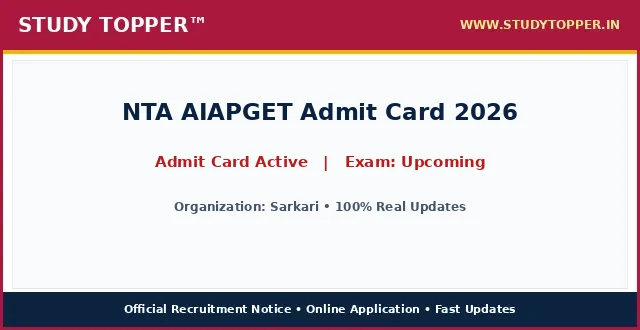
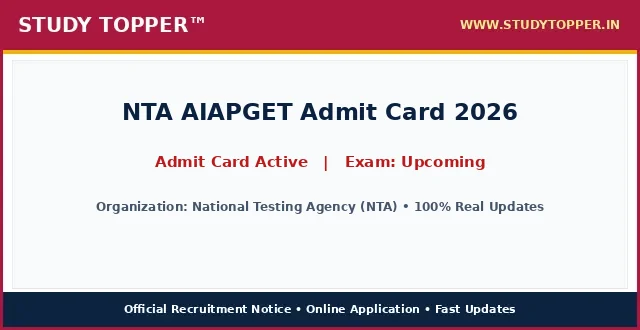
chore(lifecycle): daily auto-sort vacancies and update active dates

Changed region(s): [[0.125, 0.6061, 0.8438, 0.6667]]

diff --git a/pages/nta-aiapget-2026.html b/pages/nta-aiapget-2026.html
@@ -987,12 +987,12 @@ ul.wp-block-latest-posts a:hover {
 <main class="site-main" id="main">
 <div class="gb-container gb-container-b39c368c">
 <h1 class="gb-headline gb-headline-e52a0102 gb-headline-text" style="font-size: 22px; font-weight: 700; color: #0000cd; text-align: left; margin: 8px 0 4px 0; line-height: 1.3; width: 100%; font-family: '-apple-system, BlinkMacSystemFont, 'Segoe UI', Roboto, 'Helvetica Neue', Arial, sans-serif', Times, serif, Hind, sans-serif;">NTA AIAPGET Admit Card 2026</h1>
-<div class="gb-container gb-container-659bd175"><p style="color: #cd0808; font-weight: 700; font-size: 15px; margin: 2px 0 7px 0; text-align: left; font-family: '-apple-system, BlinkMacSystemFont, 'Segoe UI', Roboto, 'Helvetica Neue', Arial, sans-serif', Times, serif, Hind, sans-serif;">Post Date: August 22, 2026 11:53 AM</p></div>
-<p class="gb-headline gb-headline-550ae316 short_Details gb-headline-text" style="width: 100%; max-width: 100%; font-size: 16.8px; line-height: 1.55; color: #000000; text-align: justify; text-justify: inter-word; margin: 8px 0 14px 0; display: block; font-family: '-apple-system, BlinkMacSystemFont, 'Segoe UI', Roboto, 'Helvetica Neue', Arial, sans-serif', Times, serif, Hind, sans-serif;"><strong style="color: #0000cd;">Sarkari</strong> has officially released the exam city intimation slip and <strong style="color: #cd0808;">NTA AIAPGET Admit Card 2026</strong> for eligible registered candidates. Aspirants appearing for the upcoming computer-based test can download their e-call letters by entering their registration credentials. The hall ticket contains vital examination details including shift timings, reporting hours, test venue coordinates, and exam day guidelines. Candidates must download and print their admit cards early to avoid last-minute server congestion and carry valid photo identification.</p>
+<div class="gb-container gb-container-659bd175"><p style="color: #cd0808; font-weight: 700; font-size: 15px; margin: 2px 0 7px 0; text-align: left; font-family: '-apple-system, BlinkMacSystemFont, 'Segoe UI', Roboto, 'Helvetica Neue', Arial, sans-serif', Times, serif, Hind, sans-serif;">Post Date: August 22, 2026 01:03 PM</p></div>
+<p class="gb-headline gb-headline-550ae316 short_Details gb-headline-text" style="width: 100%; max-width: 100%; font-size: 16.8px; line-height: 1.55; color: #000000; text-align: justify; text-justify: inter-word; margin: 8px 0 14px 0; display: block; font-family: '-apple-system, BlinkMacSystemFont, 'Segoe UI', Roboto, 'Helvetica Neue', Arial, sans-serif', Times, serif, Hind, sans-serif;"><strong style="color: #0000cd;">National Testing Agency (NTA)</strong> has officially released the exam city intimation slip and <strong style="color: #cd0808;">NTA AIAPGET Admit Card 2026</strong> for eligible registered candidates. Aspirants appearing for the upcoming computer-based test can download their e-call letters by entering their registration credentials. The hall ticket contains vital examination details including shift timings, reporting hours, test venue coordinates, and exam day guidelines. Candidates must download and print their admit cards early to avoid last-minute server congestion and carry valid photo identification.</p>
 <div class="gb-container gb-container-9849916c"><div class="social-buttons-compact" style="display: flex; justify-content: flex-start; align-items: center; gap: 10px; margin: 10px 0 16px 0; width: 100%;"><a class="social-btn-compact wa" href="https://whatsapp.com/channel/0029Va9xyz" rel="noopener" style="background-color: #00d084; color: #ffffff; padding: 10px 18px; border-radius: 4px; text-decoration: none; font-weight: bold; font-size: 15.5px; display: inline-flex; align-items: center; justify-content: center; height: auto;" target="_blank">WhatsApp</a><a class="social-btn-compact tg" href="https://t.me/studytopperofficial" rel="noopener" style="background-color: #0088cc; color: #ffffff; padding: 10px 18px; border-radius: 4px; text-decoration: none; font-weight: bold; font-size: 15.5px; display: inline-flex; align-items: center; justify-content: center; height: auto;" target="_blank">Telegram</a></div></div>
 <div class="gb-container gb-container-f58e6ca1" style="border: 2px solid #5b032f; border-radius: 4px; overflow: hidden; margin: 15px 0 20px 0; background-color: #ffffff; width: 100%; box-sizing: border-box;">
 <h2 class="gb-headline gb-headline-2ca5a791 gb-headline-text" style="font-size: 16px; font-weight: 700; text-align: center; color: #ef0303; line-height: 1.3; padding: 6px 4px; margin: 0; background: #ffffff; font-family: '-apple-system, BlinkMacSystemFont, 'Segoe UI', Roboto, 'Helvetica Neue', Arial, sans-serif', Times, serif, Hind, sans-serif;">NTA AIAPGET Admit Card 2026 &ndash; Latest Details &amp; Updates</h2>
-<h3 class="gb-headline gb-headline-7d5f86e8 gb-headline-text" style="font-size: 16px; font-weight: 600; text-align: center; color: #009703; line-height: 1.25; margin: 0; padding: 2px 4px 6px 4px; background: #ffffff; font-family: '-apple-system, BlinkMacSystemFont, 'Segoe UI', Roboto, 'Helvetica Neue', Arial, sans-serif', Times, serif, Hind, sans-serif;">Sarkari : Details &amp; Summary</h3>
+<h3 class="gb-headline gb-headline-7d5f86e8 gb-headline-text" style="font-size: 16px; font-weight: 600; text-align: center; color: #009703; line-height: 1.25; margin: 0; padding: 2px 4px 6px 4px; background: #ffffff; font-family: '-apple-system, BlinkMacSystemFont, 'Segoe UI', Roboto, 'Helvetica Neue', Arial, sans-serif', Times, serif, Hind, sans-serif;">National Testing Agency (NTA) : Details &amp; Summary</h3>
 <p class="gb-headline gb-headline-79adf169 gb-headline-text" style="margin: 0 0 6px 0; font-family: '-apple-system, BlinkMacSystemFont, 'Segoe UI', Roboto, 'Helvetica Neue', Arial, sans-serif', Times, serif, Hind, sans-serif; text-align: center; font-size: 18px; font-weight: 700;"><a href="/" style="color: #0000ff; text-decoration: underline;">StudyTopper.in</a></p>
 
 <style id="st-post-boxes-responsive-css">
@@ -1025,7 +1025,7 @@ ul.wp-block-latest-posts a:hover {
     <div style="background-color: #5b032f; color: #ffffff; padding: 8px 10px; font-size: 20px; font-weight: 700; text-align: center; font-family: '-apple-system, BlinkMacSystemFont, 'Segoe UI', Roboto, 'Helvetica Neue', Arial, sans-serif', Times, serif, Hind, sans-serif;">Admit Card &amp; Exam Dates</div>
     <div style="padding: 12px 14px; background-color: #ffffff;">
       <ul style="padding-left: 20px; margin: 0; list-style-type: disc; text-align: left; font-size: 14pt; line-height: 1.6; font-family: '-apple-system, BlinkMacSystemFont, 'Segoe UI', Roboto, 'Helvetica Neue', Arial, sans-serif', Times, serif, Hind, sans-serif;">
-        
+        <li><span style="font-size: 14pt;">Release Date : <strong>Published Officially</strong></span></li><li><span style="font-size: 14pt;">Status : <strong>Available Online</strong></span></li>
       </ul>
     </div>
   </div>
@@ -1034,7 +1034,7 @@ ul.wp-block-latest-posts a:hover {
     <div style="background-color: #5b032f; color: #ffffff; padding: 8px 10px; font-size: 20px; font-weight: 700; text-align: center; font-family: '-apple-system, BlinkMacSystemFont, 'Segoe UI', Roboto, 'Helvetica Neue', Arial, sans-serif', Times, serif, Hind, sans-serif;">Application / Exam Fee</div>
     <div style="padding: 12px 14px; background-color: #ffffff;">
       <ul style="padding-left: 20px; margin: 0; list-style-type: disc; text-align: left; font-size: 14pt; line-height: 1.6; font-family: '-apple-system, BlinkMacSystemFont, 'Segoe UI', Roboto, 'Helvetica Neue', Arial, sans-serif', Times, serif, Hind, sans-serif;">
-        <li><span style="font-size: 14pt;">Bihar Police BPSSC Sub Inspector SI Prohibition Result 2026 Advt. No. : <strong>03/2026</strong></span></li><li><span style="font-size: 14pt;">UP Scholarship Online Form 2026 : <strong>2027</strong></span></li>
+        <li><span style="font-size: 14pt;">Application Fee : <strong>0/- (No Fee Required)</strong></span></li>
       </ul>
       <div style="margin-top: 10px; font-size: 14pt; line-height: 1.5; color: #000000; border-top: 1px dashed #ccc; padding-top: 8px; font-family: '-apple-system, BlinkMacSystemFont, 'Segoe UI', Roboto, 'Helvetica Neue', Arial, sans-serif', Times, serif, Hind, sans-serif;">
         <strong>Mode of Payment / Access:</strong> Online via Net Banking, Debit Card, Credit Card, UPI or Free Candidate Portal.
@@ -1047,7 +1047,7 @@ ul.wp-block-latest-posts a:hover {
 <div class="st-grid-row" style="display: flex; flex-wrap: wrap; width: 100%; border-top: 2px solid #5b032f; margin: 0; padding: 0; box-sizing: border-box;">
   <!-- Left Col: Age Limits -->
   <div class="st-col-half st-col-border-right" style="box-sizing: border-box; vertical-align: top;">
-    <div style="background-color: #046132; color: #ffffff; padding: 8px 10px; font-size: 17px; font-weight: 700; text-align: center; font-family: '-apple-system, BlinkMacSystemFont, 'Segoe UI', Roboto, 'Helvetica Neue', Arial, sans-serif', Times, serif, Hind, sans-serif;">Sarkari : Age Limits As On 01 August 2026</div>
+    <div style="background-color: #046132; color: #ffffff; padding: 8px 10px; font-size: 17px; font-weight: 700; text-align: center; font-family: '-apple-system, BlinkMacSystemFont, 'Segoe UI', Roboto, 'Helvetica Neue', Arial, sans-serif', Times, serif, Hind, sans-serif;">National Testing Agency (NTA) : Age Limits As On 01/08/2026</div>
     <div style="padding: 12px 14px; background-color: #ffffff;">
       <ul style="padding-left: 20px; margin: 0; list-style-type: disc; text-align: left; font-size: 14pt; line-height: 1.6; font-family: '-apple-system, BlinkMacSystemFont, 'Segoe UI', Roboto, 'Helvetica Neue', Arial, sans-serif', Times, serif, Hind, sans-serif;">
         
@@ -1058,7 +1058,7 @@ ul.wp-block-latest-posts a:hover {
   <div class="st-col-half" style="box-sizing: border-box; vertical-align: top;">
     <div style="background-color: #f53c00; color: #ffffff; padding: 8px 10px; font-size: 20px; font-weight: 700; text-align: center; font-family: '-apple-system, BlinkMacSystemFont, 'Segoe UI', Roboto, 'Helvetica Neue', Arial, sans-serif', Times, serif, Hind, sans-serif;">Hall Ticket Status</div>
     <div style="padding: 24px 10px; background-color: #ffffff; text-align: center;">
-      <span style="font-size: 28px; font-weight: 800; color: #000000; font-family: '-apple-system, BlinkMacSystemFont, 'Segoe UI', Roboto, 'Helvetica Neue', Arial, sans-serif', Times, serif, Hind, sans-serif;">545 Post</span>
+      <span style="font-size: 28px; font-weight: 800; color: #000000; font-family: '-apple-system, BlinkMacSystemFont, 'Segoe UI', Roboto, 'Helvetica Neue', Arial, sans-serif', Times, serif, Hind, sans-serif;">Various Posts</span>
     </div>
   </div>
 </div>
@@ -1079,9 +1079,9 @@ ul.wp-block-latest-posts a:hover {
 <th style="background-color: #f53c00; color: #ffffff; padding: 6px 10px; text-align: center; border: 1px solid #d35400; font-size: 15px; font-weight: 700; font-family: '-apple-system, BlinkMacSystemFont, 'Segoe UI', Roboto, 'Helvetica Neue', Arial, sans-serif', Times, serif, Hind, sans-serif;">Educational Eligibility Criteria</th>
 </tr>
 <tr>
-<td style="padding: 8px; border: 1px solid #ddd; font-weight: bold;">Sarkari Recruitment</td>
-<td style="padding: 8px; border: 1px solid #ddd; text-align: center; font-weight: bold;">545 Post</td>
-<td style="padding: 8px; border: 1px solid #ddd;">Please refer to the official notification linked below for detailed educational qualifications.</td>
+<td style="padding: 8px; border: 1px solid #ddd; font-weight: bold;">NTA AIAPGET Admit Card 2026</td>
+<td style="padding: 8px; border: 1px solid #ddd; text-align: center; font-weight: bold;">Various Posts</td>
+<td style="padding: 8px; border: 1px solid #ddd;">Passed prescribed Educational Qualification from Any Recognized Board / University in India. Read full official notification for post-wise eligibility criteria.</td>
 </tr>
 </tbody>
 </table>
@@ -1093,7 +1093,7 @@ ul.wp-block-latest-posts a:hover {
 <table style="border-collapse: collapse; width: 100%;">
 <tbody>
 <tr>
-<td style="width: 100%; text-align: center;"><span style="background-color: #000080; color: #ffffff; font-size: 14pt; font-weight: bold; display: block; padding: 6px;"> How to Download Sarkari Admit Card 2026 &amp; Exam Day Instructions </span></td>
+<td style="width: 100%; text-align: center;"><span style="background-color: #000080; color: #ffffff; font-size: 14pt; font-weight: bold; display: block; padding: 6px;"> How to Download National Testing Agency (NTA) Admit Card 2026 &amp; Exam Day Instructions </span></td>
 </tr>
 <tr>
 <td style="width: 100%;"><ol style="margin:0; padding-left:18px; text-align: left !important; list-style-position: outside !important"><li style="margin-bottom:6px; text-align: left !important;">Scroll down to the 'Important Links' section on this page.</li><li style="margin-bottom:6px; text-align: left !important;">Click on the direct link to download/check your status.</li><li style="margin-bottom:6px; text-align: left !important;">Enter your required login credentials such as Registration Number, Roll Number, or Date of Birth.</li><li style="margin-bottom:6px; text-align: left !important;">Click on submit to view your status.</li><li style="margin-bottom:6px; text-align: left !important;">Download and take a printout for future reference.</li></ol></td>
@@ -1104,7 +1104,7 @@ ul.wp-block-latest-posts a:hover {
 <table style="border-collapse: collapse; width: 100%;">
 <tbody>
 <tr>
-<td style="width: 100%; text-align: center;"><span style="background-color: #000080; color: #ffffff; font-size: 14pt;"><strong><span style="color: #ffffff;"> Sarkari Recruitment 2026 : Mode Of Selection </span></strong></span></td>
+<td style="width: 100%; text-align: center;"><span style="background-color: #000080; color: #ffffff; font-size: 14pt;"><strong><span style="color: #ffffff;"> National Testing Agency (NTA) Recruitment 2026 : Mode Of Selection </span></strong></span></td>
 </tr>
 <tr>
 <td style="width: 100%;">
@@ -1144,10 +1144,98 @@ ul.wp-block-latest-posts a:hover {
 
 <tr style="border-bottom: 1px solid #000000; background-color: #fff37a;">
 <td style="width: 50%; padding: 14px 16px; border-right: 1px solid #000000; text-align: center;">
-<span style="font-size: 19px; font-weight: 800; color: #000000; font-family: '-apple-system, BlinkMacSystemFont, 'Segoe UI', Roboto, 'Helvetica Neue', Arial, sans-serif', Times, serif, Hind, sans-serif;">Download Admit Card / Hall Ticket</span>
+<span style="font-size: 19px; font-weight: 800; color: #000000; font-family: '-apple-system, BlinkMacSystemFont, 'Segoe UI', Roboto, 'Helvetica Neue', Arial, sans-serif', Times, serif, Hind, sans-serif;">Join Our WhatsApp Channel</span>
 </td>
 <td style="width: 50%; padding: 14px 16px; text-align: center;">
-<span style="font-size: 20px; font-weight: 800; font-family: '-apple-system, BlinkMacSystemFont, 'Segoe UI', Roboto, 'Helvetica Neue', Arial, sans-serif', Times, serif, Hind, sans-serif;"><a href="" aria-label="Click Here for Download Admit Card / Hall Ticket - NTA AIAPGET Admit Card 2026" rel="noopener noreferrer" style="color: #0000ef; font-weight: 800; text-decoration: none;" target="_blank">Click Here</a></span>
+<span style="font-size: 20px; font-weight: 800; font-family: '-apple-system, BlinkMacSystemFont, 'Segoe UI', Roboto, 'Helvetica Neue', Arial, sans-serif', Times, serif, Hind, sans-serif;"><a href="https://whatsapp.com/channel/0029VavXmlBEAKWFRHeXwL28" aria-label="Click Here for Join Our WhatsApp Channel - NTA AIAPGET Admit Card 2026" rel="noopener noreferrer" style="color: #0000ef; font-weight: 800; text-decoration: none;" target="_blank">Click Here</a></span>
+</td>
+</tr>
+<tr style="border-bottom: 1px solid #000000; background-color: #fff37a;">
+<td style="width: 50%; padding: 14px 16px; border-right: 1px solid #000000; text-align: center;">
+<span style="font-size: 19px; font-weight: 800; color: #000000; font-family: '-apple-system, BlinkMacSystemFont, 'Segoe UI', Roboto, 'Helvetica Neue', Arial, sans-serif', Times, serif, Hind, sans-serif;">Join Our Telegram Channel</span>
+</td>
+<td style="width: 50%; padding: 14px 16px; text-align: center;">
+<span style="font-size: 20px; font-weight: 800; font-family: '-apple-system, BlinkMacSystemFont, 'Segoe UI', Roboto, 'Helvetica Neue', Arial, sans-serif', Times, serif, Hind, sans-serif;"><a href="https://t.me/sarkariresultoficial" aria-label="Click Here for Join Our Telegram Channel - NTA AIAPGET Admit Card 2026" rel="noopener noreferrer" style="color: #0000ef; font-weight: 800; text-decoration: none;" target="_blank">Click Here</a></span>
+</td>
+</tr>
+<tr style="border-bottom: 1px solid #000000; background-color: #fff37a;">
+<td style="width: 50%; padding: 14px 16px; border-right: 1px solid #000000; text-align: center;">
+<span style="font-size: 19px; font-weight: 800; color: #000000; font-family: '-apple-system, BlinkMacSystemFont, 'Segoe UI', Roboto, 'Helvetica Neue', Arial, sans-serif', Times, serif, Hind, sans-serif;">Download Admit Card</span>
+</td>
+<td style="width: 50%; padding: 14px 16px; text-align: center;">
+<span style="font-size: 20px; font-weight: 800; font-family: '-apple-system, BlinkMacSystemFont, 'Segoe UI', Roboto, 'Helvetica Neue', Arial, sans-serif', Times, serif, Hind, sans-serif;"><a href="https://examinationservices.nic.in/AdmitCardService/Admitcardview/Login?enc=EU2nJaTepF908NeNySmtkjs0/iPIvXk12Fg+hTlccys=" aria-label="Click Here for Download Admit Card - NTA AIAPGET Admit Card 2026" rel="noopener noreferrer" style="color: #0000ef; font-weight: 800; text-decoration: none;" target="_blank">Click Here</a></span>
+</td>
+</tr>
+<tr style="border-bottom: 1px solid #000000; background-color: #fff37a;">
+<td style="width: 50%; padding: 14px 16px; border-right: 1px solid #000000; text-align: center;">
+<span style="font-size: 19px; font-weight: 800; color: #000000; font-family: '-apple-system, BlinkMacSystemFont, 'Segoe UI', Roboto, 'Helvetica Neue', Arial, sans-serif', Times, serif, Hind, sans-serif;">Check Admit Card Notice</span>
+</td>
+<td style="width: 50%; padding: 14px 16px; text-align: center;">
+<span style="font-size: 20px; font-weight: 800; font-family: '-apple-system, BlinkMacSystemFont, 'Segoe UI', Roboto, 'Helvetica Neue', Arial, sans-serif', Times, serif, Hind, sans-serif;"><a href="https://cdnbbsr.s3waas.gov.in/s388a839f2f6f1427879fc33ee4acf4f66/uploads/2026/08/20260818137536527.pdf" aria-label="Click Here for Check Admit Card Notice - NTA AIAPGET Admit Card 2026" rel="noopener noreferrer" style="color: #0000ef; font-weight: 800; text-decoration: none;" target="_blank">Click Here</a></span>
+</td>
+</tr>
+<tr style="border-bottom: 1px solid #000000; background-color: #fff37a;">
+<td style="width: 50%; padding: 14px 16px; border-right: 1px solid #000000; text-align: center;">
+<span style="font-size: 19px; font-weight: 800; color: #000000; font-family: '-apple-system, BlinkMacSystemFont, 'Segoe UI', Roboto, 'Helvetica Neue', Arial, sans-serif', Times, serif, Hind, sans-serif;">Download Exam City Details</span>
+</td>
+<td style="width: 50%; padding: 14px 16px; text-align: center;">
+<span style="font-size: 20px; font-weight: 800; font-family: '-apple-system, BlinkMacSystemFont, 'Segoe UI', Roboto, 'Helvetica Neue', Arial, sans-serif', Times, serif, Hind, sans-serif;"><a href="https://examinationservices.nic.in/AdmitCard/AuthForAdvanceCity/Login?enc=DJ8reokIYhe/x0Hlb6GKa7GQ7IXuVnqaT+Q4s4vV+/s=" aria-label="Click Here for Download Exam City Details - NTA AIAPGET Admit Card 2026" rel="noopener noreferrer" style="color: #0000ef; font-weight: 800; text-decoration: none;" target="_blank">Click Here</a></span>
+</td>
+</tr>
+<tr style="border-bottom: 1px solid #000000; background-color: #fff37a;">
+<td style="width: 50%; padding: 14px 16px; border-right: 1px solid #000000; text-align: center;">
+<span style="font-size: 19px; font-weight: 800; color: #000000; font-family: '-apple-system, BlinkMacSystemFont, 'Segoe UI', Roboto, 'Helvetica Neue', Arial, sans-serif', Times, serif, Hind, sans-serif;">Check Exam City Notice</span>
+</td>
+<td style="width: 50%; padding: 14px 16px; text-align: center;">
+<span style="font-size: 20px; font-weight: 800; font-family: '-apple-system, BlinkMacSystemFont, 'Segoe UI', Roboto, 'Helvetica Neue', Arial, sans-serif', Times, serif, Hind, sans-serif;"><a href="https://cdnbbsr.s3waas.gov.in/s388a839f2f6f1427879fc33ee4acf4f66/uploads/2026/08/202608131821925460.pdf" aria-label="Click Here for Check Exam City Notice - NTA AIAPGET Admit Card 2026" rel="noopener noreferrer" style="color: #0000ef; font-weight: 800; text-decoration: none;" target="_blank">Click Here</a></span>
+</td>
+</tr>
+<tr style="border-bottom: 1px solid #000000; background-color: #fff37a;">
+<td style="width: 50%; padding: 14px 16px; border-right: 1px solid #000000; text-align: center;">
+<span style="font-size: 19px; font-weight: 800; color: #000000; font-family: '-apple-system, BlinkMacSystemFont, 'Segoe UI', Roboto, 'Helvetica Neue', Arial, sans-serif', Times, serif, Hind, sans-serif;">Online Correction Link</span>
+</td>
+<td style="width: 50%; padding: 14px 16px; text-align: center;">
+<span style="font-size: 20px; font-weight: 800; font-family: '-apple-system, BlinkMacSystemFont, 'Segoe UI', Roboto, 'Helvetica Neue', Arial, sans-serif', Times, serif, Hind, sans-serif;"><a href="https://examinationservices.nic.in/ExamSys26part2/root/CandidateLogin.aspx?enc=Ei4cajBkK1gZSfgr53ImFZ+h0MepSUWC4caRGr23rIGxoddmkPhP33EPDwrEMlwi" aria-label="Click Here for Online Correction Link - NTA AIAPGET Admit Card 2026" rel="noopener noreferrer" style="color: #0000ef; font-weight: 800; text-decoration: none;" target="_blank">Click Here</a></span>
+</td>
+</tr>
+<tr style="border-bottom: 1px solid #000000; background-color: #fff37a;">
+<td style="width: 50%; padding: 14px 16px; border-right: 1px solid #000000; text-align: center;">
+<span style="font-size: 19px; font-weight: 800; color: #000000; font-family: '-apple-system, BlinkMacSystemFont, 'Segoe UI', Roboto, 'Helvetica Neue', Arial, sans-serif', Times, serif, Hind, sans-serif;">Check Correction Notice</span>
+</td>
+<td style="width: 50%; padding: 14px 16px; text-align: center;">
+<span style="font-size: 20px; font-weight: 800; font-family: '-apple-system, BlinkMacSystemFont, 'Segoe UI', Roboto, 'Helvetica Neue', Arial, sans-serif', Times, serif, Hind, sans-serif;"><a href="https://cdnbbsr.s3waas.gov.in/s388a839f2f6f1427879fc33ee4acf4f66/uploads/2026/08/202608011180992762.pdf" aria-label="Click Here for Check Correction Notice - NTA AIAPGET Admit Card 2026" rel="noopener noreferrer" style="color: #0000ef; font-weight: 800; text-decoration: none;" target="_blank">Click Here</a></span>
+</td>
+</tr>
+<tr style="border-bottom: 1px solid #000000; background-color: #fff37a;">
+<td style="width: 50%; padding: 14px 16px; border-right: 1px solid #000000; text-align: center;">
+<span style="font-size: 19px; font-weight: 800; color: #000000; font-family: '-apple-system, BlinkMacSystemFont, 'Segoe UI', Roboto, 'Helvetica Neue', Arial, sans-serif', Times, serif, Hind, sans-serif;">Apply Online</span>
+</td>
+<td style="width: 50%; padding: 14px 16px; text-align: center;">
+<span style="font-size: 20px; font-weight: 800; font-family: '-apple-system, BlinkMacSystemFont, 'Segoe UI', Roboto, 'Helvetica Neue', Arial, sans-serif', Times, serif, Hind, sans-serif;"><a href="https://examinationservices.nic.in/ExamSys26part2/root/Home.aspx?enc=Ei4cajBkK1gZSfgr53ImFZ+h0MepSUWC4caRGr23rIGxoddmkPhP33EPDwrEMlwi" aria-label="Click Here for Apply Online - NTA AIAPGET Admit Card 2026" rel="noopener noreferrer" style="color: #0000ef; font-weight: 800; text-decoration: none;" target="_blank">Click Here</a></span>
+</td>
+</tr>
+<tr style="border-bottom: 1px solid #000000; background-color: #fff37a;">
+<td style="width: 50%; padding: 14px 16px; border-right: 1px solid #000000; text-align: center;">
+<span style="font-size: 19px; font-weight: 800; color: #000000; font-family: '-apple-system, BlinkMacSystemFont, 'Segoe UI', Roboto, 'Helvetica Neue', Arial, sans-serif', Times, serif, Hind, sans-serif;">Download Information Bulletin</span>
+</td>
+<td style="width: 50%; padding: 14px 16px; text-align: center;">
+<span style="font-size: 20px; font-weight: 800; font-family: '-apple-system, BlinkMacSystemFont, 'Segoe UI', Roboto, 'Helvetica Neue', Arial, sans-serif', Times, serif, Hind, sans-serif;"><a href="https://cdnbbsr.s3waas.gov.in/s388a839f2f6f1427879fc33ee4acf4f66/uploads/2026/07/20260710422047595.pdf" aria-label="Click Here for Download Information Bulletin - NTA AIAPGET Admit Card 2026" rel="noopener noreferrer" style="color: #0000ef; font-weight: 800; text-decoration: none;" target="_blank">Click Here</a></span>
+</td>
+</tr>
+<tr style="border-bottom: 1px solid #000000; background-color: #fff37a;">
+<td style="width: 50%; padding: 14px 16px; border-right: 1px solid #000000; text-align: center;">
+<span style="font-size: 19px; font-weight: 800; color: #000000; font-family: '-apple-system, BlinkMacSystemFont, 'Segoe UI', Roboto, 'Helvetica Neue', Arial, sans-serif', Times, serif, Hind, sans-serif;">Check Official Notification</span>
+</td>
+<td style="width: 50%; padding: 14px 16px; text-align: center;">
+<span style="font-size: 20px; font-weight: 800; font-family: '-apple-system, BlinkMacSystemFont, 'Segoe UI', Roboto, 'Helvetica Neue', Arial, sans-serif', Times, serif, Hind, sans-serif;"><a href="https://cdnbbsr.s3waas.gov.in/s388a839f2f6f1427879fc33ee4acf4f66/uploads/2026/07/202607101983155019.pdf" aria-label="Click Here for Check Official Notification - NTA AIAPGET Admit Card 2026" rel="noopener noreferrer" style="color: #0000ef; font-weight: 800; text-decoration: none;" target="_blank">Click Here</a></span>
+</td>
+</tr>
+<tr style="border-bottom: 1px solid #000000; background-color: #fff37a;">
+<td style="width: 50%; padding: 14px 16px; border-right: 1px solid #000000; text-align: center;">
+<span style="font-size: 19px; font-weight: 800; color: #000000; font-family: '-apple-system, BlinkMacSystemFont, 'Segoe UI', Roboto, 'Helvetica Neue', Arial, sans-serif', Times, serif, Hind, sans-serif;">Check Official Notification</span>
+</td>
+<td style="width: 50%; padding: 14px 16px; text-align: center;">
+<span style="font-size: 20px; font-weight: 800; font-family: '-apple-system, BlinkMacSystemFont, 'Segoe UI', Roboto, 'Helvetica Neue', Arial, sans-serif', Times, serif, Hind, sans-serif;"><a href="https://cdnbbsr.s3waas.gov.in/s388a839f2f6f1427879fc33ee4acf4f66/uploads/2026/07/20260710583088132.pdf" aria-label="Click Here for Check Official Notification - NTA AIAPGET Admit Card 2026" rel="noopener noreferrer" style="color: #0000ef; font-weight: 800; text-decoration: none;" target="_blank">Click Here</a></span>
 </td>
 </tr>
 <tr style="border-bottom: 1px solid #000000; background-color: #fff37a;">
@@ -1155,15 +1243,55 @@ ul.wp-block-latest-posts a:hover {
 <span style="font-size: 19px; font-weight: 800; color: #000000; font-family: '-apple-system, BlinkMacSystemFont, 'Segoe UI', Roboto, 'Helvetica Neue', Arial, sans-serif', Times, serif, Hind, sans-serif;">Check Sarkari Result</span>
 </td>
 <td style="width: 50%; padding: 14px 16px; text-align: center;">
-<span style="font-size: 20px; font-weight: 800; font-family: '-apple-system, BlinkMacSystemFont, 'Segoe UI', Roboto, 'Helvetica Neue', Arial, sans-serif', Times, serif, Hind, sans-serif;"><a href="/" aria-label="Click Here for Check Sarkari Result - NTA AIAPGET Admit Card 2026" rel="noopener noreferrer" style="color: #0000ef; font-weight: 800; text-decoration: none;" >Click Here</a></span>
+<span style="font-size: 20px; font-weight: 800; font-family: '-apple-system, BlinkMacSystemFont, 'Segoe UI', Roboto, 'Helvetica Neue', Arial, sans-serif', Times, serif, Hind, sans-serif;"><a href="https://sarkariresult.com.cm/" aria-label="Click Here for Check Sarkari Result - NTA AIAPGET Admit Card 2026" rel="noopener noreferrer" style="color: #0000ef; font-weight: 800; text-decoration: none;" target="_blank">Click Here</a></span>
+</td>
+</tr>
+<tr style="border-bottom: 1px solid #000000; background-color: #fff37a;">
+<td style="width: 50%; padding: 14px 16px; border-right: 1px solid #000000; text-align: center;">
+<span style="font-size: 19px; font-weight: 800; color: #000000; font-family: '-apple-system, BlinkMacSystemFont, 'Segoe UI', Roboto, 'Helvetica Neue', Arial, sans-serif', Times, serif, Hind, sans-serif;">AIAPGET Official Website</span>
+</td>
+<td style="width: 50%; padding: 14px 16px; text-align: center;">
+<span style="font-size: 20px; font-weight: 800; font-family: '-apple-system, BlinkMacSystemFont, 'Segoe UI', Roboto, 'Helvetica Neue', Arial, sans-serif', Times, serif, Hind, sans-serif;"><a href="https://exams.nta.ac.in/AIAPGET/" aria-label="Click Here for AIAPGET Official Website - NTA AIAPGET Admit Card 2026" rel="noopener noreferrer" style="color: #0000ef; font-weight: 800; text-decoration: none;" target="_blank">Click Here</a></span>
+</td>
+</tr>
+<tr style="border-bottom: 1px solid #000000; background-color: #fff37a;">
+<td style="width: 50%; padding: 14px 16px; border-right: 1px solid #000000; text-align: center;">
+<span style="font-size: 19px; font-weight: 800; color: #000000; font-family: '-apple-system, BlinkMacSystemFont, 'Segoe UI', Roboto, 'Helvetica Neue', Arial, sans-serif', Times, serif, Hind, sans-serif;">Latest Posts Haryana HTET Score Card 2026 – Out SSC Delhi Police Constable (Executive) PE & MT Notice 2026 UPSC CDS-II Final Result With Marks 2026 IDBI JAM Final Result 2026 Railway RRB ALP Application Status 2026 – Out</span>
+</td>
+<td style="width: 50%; padding: 14px 16px; text-align: center;">
+<span style="font-size: 20px; font-weight: 800; font-family: '-apple-system, BlinkMacSystemFont, 'Segoe UI', Roboto, 'Helvetica Neue', Arial, sans-serif', Times, serif, Hind, sans-serif;"><a href="https://sarkariresult.com.cm/ssc-delhi-police-constable-executive-2026/" aria-label="Click Here for Latest Posts Haryana HTET Score Card 2026 – Out SSC Delhi Police Constable (Executive) PE & MT Notice 2026 UPSC CDS-II Final Result With Marks 2026 IDBI JAM Final Result 2026 Railway RRB ALP Application Status 2026 – Out - NTA AIAPGET Admit Card 2026" rel="noopener noreferrer" style="color: #0000ef; font-weight: 800; text-decoration: none;" target="_blank">Click Here</a></span>
+</td>
+</tr>
+<tr style="border-bottom: 1px solid #000000; background-color: #fff37a;">
+<td style="width: 50%; padding: 14px 16px; border-right: 1px solid #000000; text-align: center;">
+<span style="font-size: 19px; font-weight: 800; color: #000000; font-family: '-apple-system, BlinkMacSystemFont, 'Segoe UI', Roboto, 'Helvetica Neue', Arial, sans-serif', Times, serif, Hind, sans-serif;">Latest Posts Haryana HTET Score Card 2026 – Out SSC Delhi Police Constable (Executive) PE & MT Notice 2026 UPSC CDS-II Final Result With Marks 2026 IDBI JAM Final Result 2026 Railway RRB ALP Application Status 2026 – Out</span>
+</td>
+<td style="width: 50%; padding: 14px 16px; text-align: center;">
+<span style="font-size: 20px; font-weight: 800; font-family: '-apple-system, BlinkMacSystemFont, 'Segoe UI', Roboto, 'Helvetica Neue', Arial, sans-serif', Times, serif, Hind, sans-serif;"><a href="https://sarkariresult.com.cm/ssc-selection-phase-14-2026/" aria-label="Click Here for Latest Posts Haryana HTET Score Card 2026 – Out SSC Delhi Police Constable (Executive) PE & MT Notice 2026 UPSC CDS-II Final Result With Marks 2026 IDBI JAM Final Result 2026 Railway RRB ALP Application Status 2026 – Out - NTA AIAPGET Admit Card 2026" rel="noopener noreferrer" style="color: #0000ef; font-weight: 800; text-decoration: none;" target="_blank">Click Here</a></span>
+</td>
+</tr>
+<tr style="border-bottom: 1px solid #000000; background-color: #fff37a;">
+<td style="width: 50%; padding: 14px 16px; border-right: 1px solid #000000; text-align: center;">
+<span style="font-size: 19px; font-weight: 800; color: #000000; font-family: '-apple-system, BlinkMacSystemFont, 'Segoe UI', Roboto, 'Helvetica Neue', Arial, sans-serif', Times, serif, Hind, sans-serif;">Latest Posts Haryana HTET Score Card 2026 – Out SSC Delhi Police Constable (Executive) PE & MT Notice 2026 UPSC CDS-II Final Result With Marks 2026 IDBI JAM Final Result 2026 Railway RRB ALP Application Status 2026 – Out</span>
+</td>
+<td style="width: 50%; padding: 14px 16px; text-align: center;">
+<span style="font-size: 20px; font-weight: 800; font-family: '-apple-system, BlinkMacSystemFont, 'Segoe UI', Roboto, 'Helvetica Neue', Arial, sans-serif', Times, serif, Hind, sans-serif;"><a href="https://sarkariresult.com.cm/upsssc-stenographer-2025/" aria-label="Click Here for Latest Posts Haryana HTET Score Card 2026 – Out SSC Delhi Police Constable (Executive) PE & MT Notice 2026 UPSC CDS-II Final Result With Marks 2026 IDBI JAM Final Result 2026 Railway RRB ALP Application Status 2026 – Out - NTA AIAPGET Admit Card 2026" rel="noopener noreferrer" style="color: #0000ef; font-weight: 800; text-decoration: none;" target="_blank">Click Here</a></span>
+</td>
+</tr>
+<tr style="border-bottom: 1px solid #000000; background-color: #fff37a;">
+<td style="width: 50%; padding: 14px 16px; border-right: 1px solid #000000; text-align: center;">
+<span style="font-size: 19px; font-weight: 800; color: #000000; font-family: '-apple-system, BlinkMacSystemFont, 'Segoe UI', Roboto, 'Helvetica Neue', Arial, sans-serif', Times, serif, Hind, sans-serif;">Latest Posts Haryana HTET Score Card 2026 – Out SSC Delhi Police Constable (Executive) PE & MT Notice 2026 UPSC CDS-II Final Result With Marks 2026 IDBI JAM Final Result 2026 Railway RRB ALP Application Status 2026 – Out</span>
+</td>
+<td style="width: 50%; padding: 14px 16px; text-align: center;">
+<span style="font-size: 20px; font-weight: 800; font-family: '-apple-system, BlinkMacSystemFont, 'Segoe UI', Roboto, 'Helvetica Neue', Arial, sans-serif', Times, serif, Hind, sans-serif;"><a href="https://sarkariresult.com.cm/railway-rrb-group-d-level-1-recruitment-2026-online/" aria-label="Click Here for Latest Posts Haryana HTET Score Card 2026 – Out SSC Delhi Police Constable (Executive) PE & MT Notice 2026 UPSC CDS-II Final Result With Marks 2026 IDBI JAM Final Result 2026 Railway RRB ALP Application Status 2026 – Out - NTA AIAPGET Admit Card 2026" rel="noopener noreferrer" style="color: #0000ef; font-weight: 800; text-decoration: none;" target="_blank">Click Here</a></span>
 </td>
 </tr>
 <tr style=" background-color: #fff37a;">
 <td style="width: 50%; padding: 14px 16px; border-right: 1px solid #000000; text-align: center;">
-<span style="font-size: 19px; font-weight: 800; color: #000000; font-family: '-apple-system, BlinkMacSystemFont, 'Segoe UI', Roboto, 'Helvetica Neue', Arial, sans-serif', Times, serif, Hind, sans-serif;">Sarkari Website</span>
+<span style="font-size: 19px; font-weight: 800; color: #000000; font-family: '-apple-system, BlinkMacSystemFont, 'Segoe UI', Roboto, 'Helvetica Neue', Arial, sans-serif', Times, serif, Hind, sans-serif;">Latest Posts Haryana HTET Score Card 2026 – Out SSC Delhi Police Constable (Executive) PE & MT Notice 2026 UPSC CDS-II Final Result With Marks 2026 IDBI JAM Final Result 2026 Railway RRB ALP Application Status 2026 – Out</span>
 </td>
 <td style="width: 50%; padding: 14px 16px; text-align: center;">
-<span style="font-size: 20px; font-weight: 800; font-family: '-apple-system, BlinkMacSystemFont, 'Segoe UI', Roboto, 'Helvetica Neue', Arial, sans-serif', Times, serif, Hind, sans-serif;"><a href="" aria-label="Click Here for Sarkari Website - NTA AIAPGET Admit Card 2026" rel="noopener noreferrer" style="color: #0000ef; font-weight: 800; text-decoration: none;" target="_blank">Click Here</a></span>
+<span style="font-size: 20px; font-weight: 800; font-family: '-apple-system, BlinkMacSystemFont, 'Segoe UI', Roboto, 'Helvetica Neue', Arial, sans-serif', Times, serif, Hind, sans-serif;"><a href="https://sarkariresult.com.cm/uppsc-gic-lecturer-2025/" aria-label="Click Here for Latest Posts Haryana HTET Score Card 2026 – Out SSC Delhi Police Constable (Executive) PE & MT Notice 2026 UPSC CDS-II Final Result With Marks 2026 IDBI JAM Final Result 2026 Railway RRB ALP Application Status 2026 – Out - NTA AIAPGET Admit Card 2026" rel="noopener noreferrer" style="color: #0000ef; font-weight: 800; text-decoration: none;" target="_blank">Click Here</a></span>
 </td>
 </tr>
 </tbody>
@@ -1178,9 +1306,9 @@ ul.wp-block-latest-posts a:hover {
     <p style="margin: 0 0 4px 0;"><strong style="color: #000080;">Q1. When will NTA AIAPGET Admit Card 2026 be released?</strong></p>
 <p style="margin: 0 0 16px 0; color: #333333; line-height: 1.6;">Ans. The admit card is released 4 to 7 days before the exam date on the official website.</p><p style="margin: 0 0 4px 0;"><strong style="color: #000080;">Q2. How to download NTA AIAPGET Admit Card 2026 online?</strong></p>
 <p style="margin: 0 0 16px 0; color: #333333; line-height: 1.6;">Ans. Click on 'Download Admit Card' link in the Useful Links section, enter your Registration Number and DOB, and download your call letter PDF.</p><p style="margin: 0 0 4px 0;"><strong style="color: #000080;">Q3. What documents are required along with NTA AIAPGET Admit Card 2026 at the exam center?</strong></p>
-<p style="margin: 0 0 16px 0; color: #333333; line-height: 1.6;">Ans. Candidates must carry a clear printed copy of the Admit Card, original Photo ID proof (Aadhaar/PAN/Voter ID), and 2 passport photos.</p><p style="margin: 0 0 4px 0;"><strong style="color: #000080;">Q4. Is exam city slip and admit card the same for Sarkari?</strong></p>
+<p style="margin: 0 0 16px 0; color: #333333; line-height: 1.6;">Ans. Candidates must carry a clear printed copy of the Admit Card, original Photo ID proof (Aadhaar/PAN/Voter ID), and 2 passport photos.</p><p style="margin: 0 0 4px 0;"><strong style="color: #000080;">Q4. Is exam city slip and admit card the same for National Testing Agency (NTA)?</strong></p>
 <p style="margin: 0 0 16px 0; color: #333333; line-height: 1.6;">Ans. No, exam city slip intimates your allotted test city in advance, while the admit card contains exact examination venue and reporting time.</p><p style="margin: 0 0 4px 0;"><strong style="color: #000080;">Q5. What should I do if there is an error in NTA AIAPGET Admit Card 2026?</strong></p>
-<p style="margin: 0 0 0 0; color: #333333; line-height: 1.6;">Ans. Immediately contact the official Sarkari helpline email/phone number mentioned in the official notification before exam day.</p>
+<p style="margin: 0 0 0 0; color: #333333; line-height: 1.6;">Ans. Immediately contact the official National Testing Agency (NTA) helpline email/phone number mentioned in the official notification before exam day.</p>
   </div>
 </div>
 
